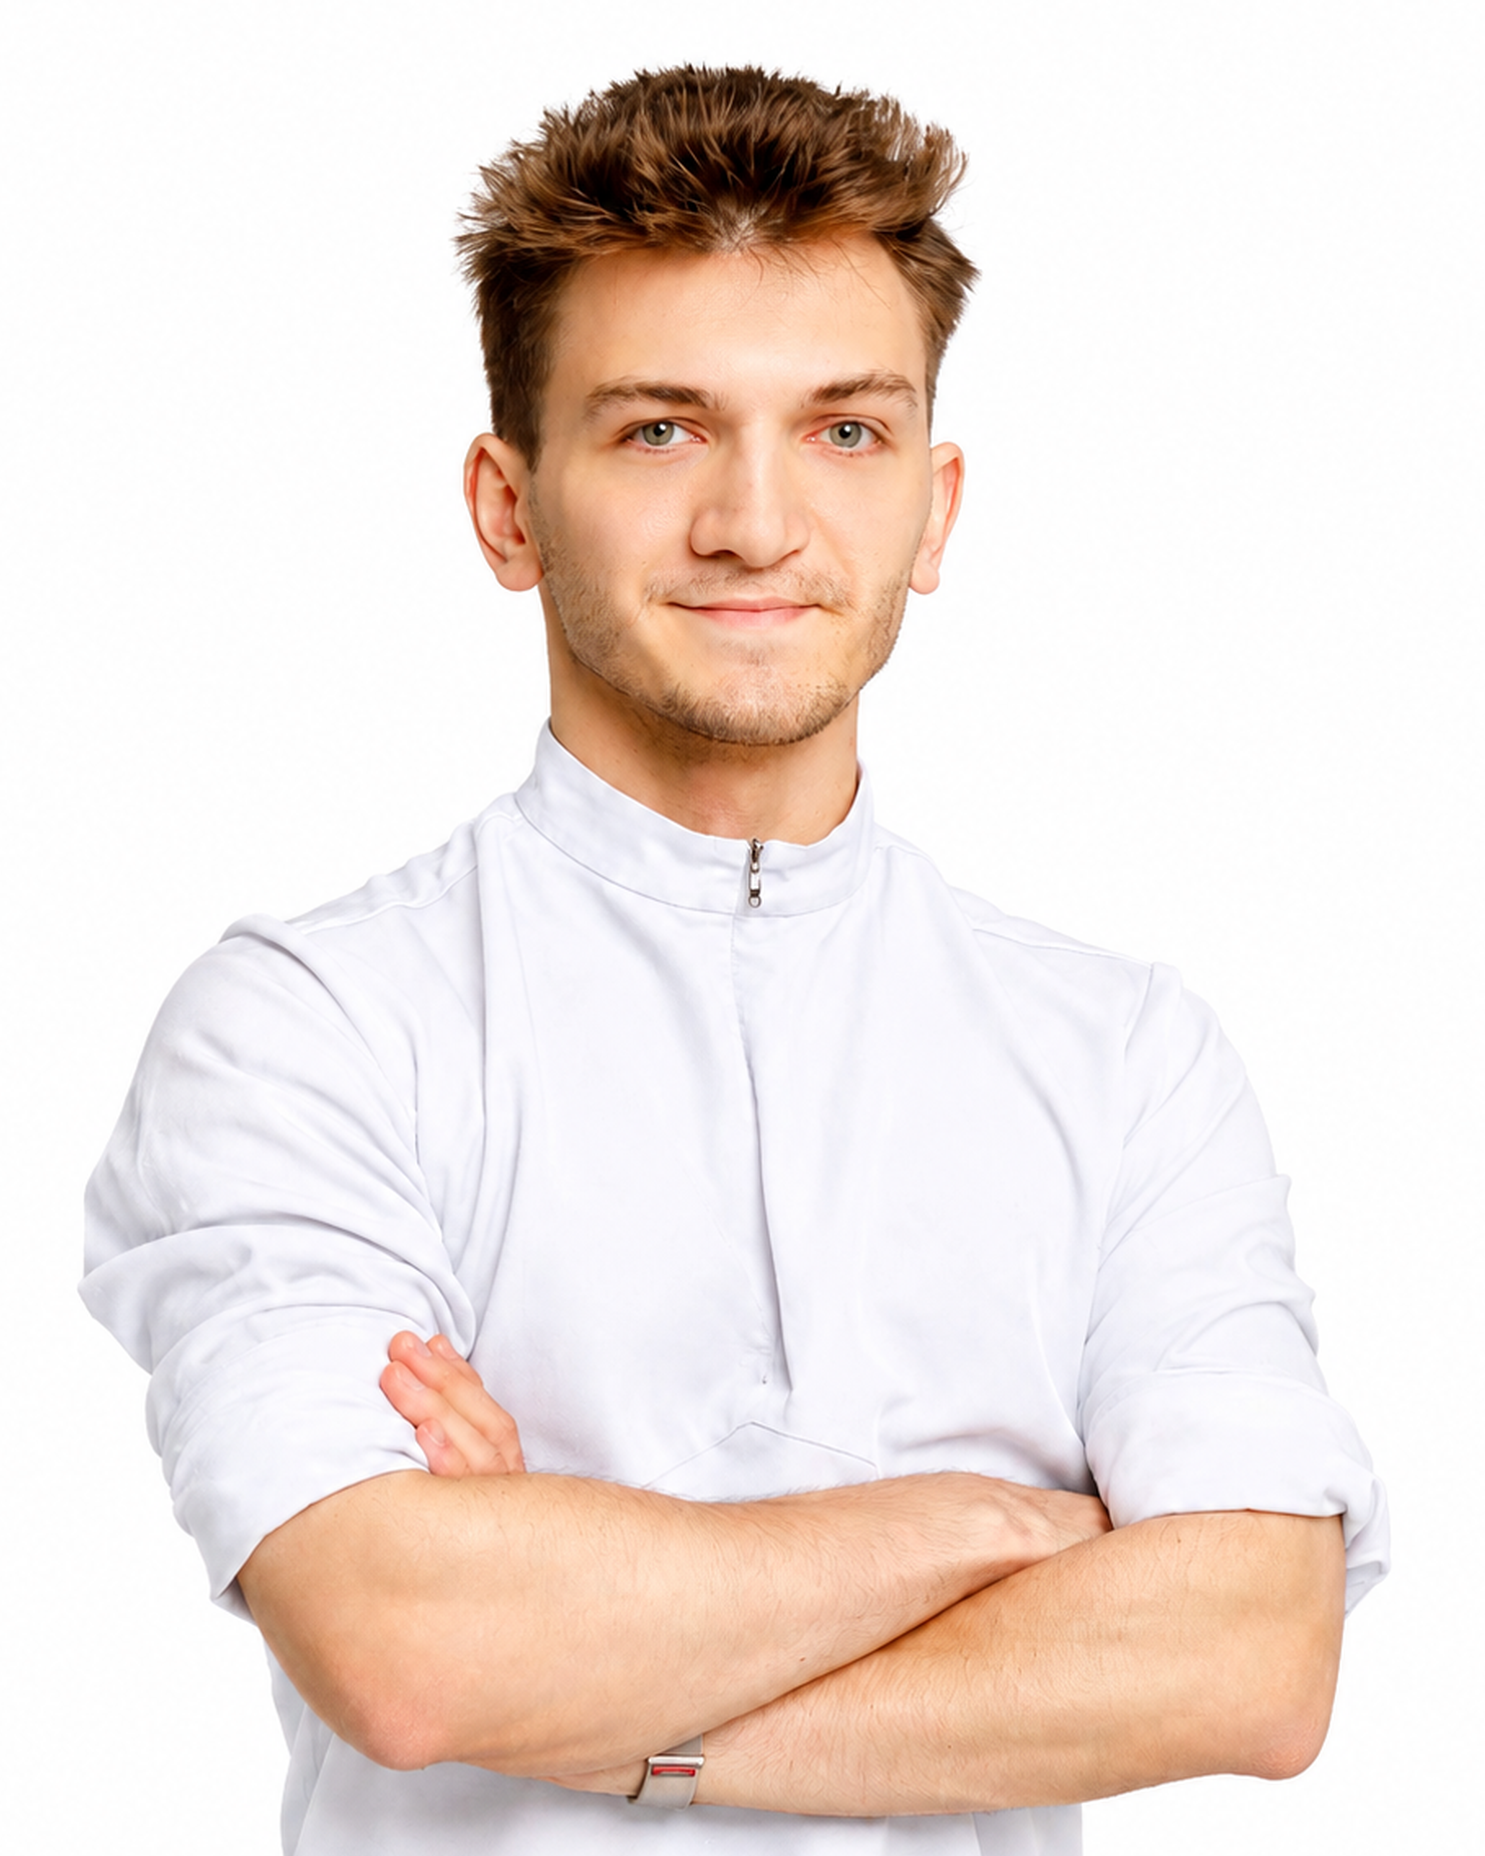
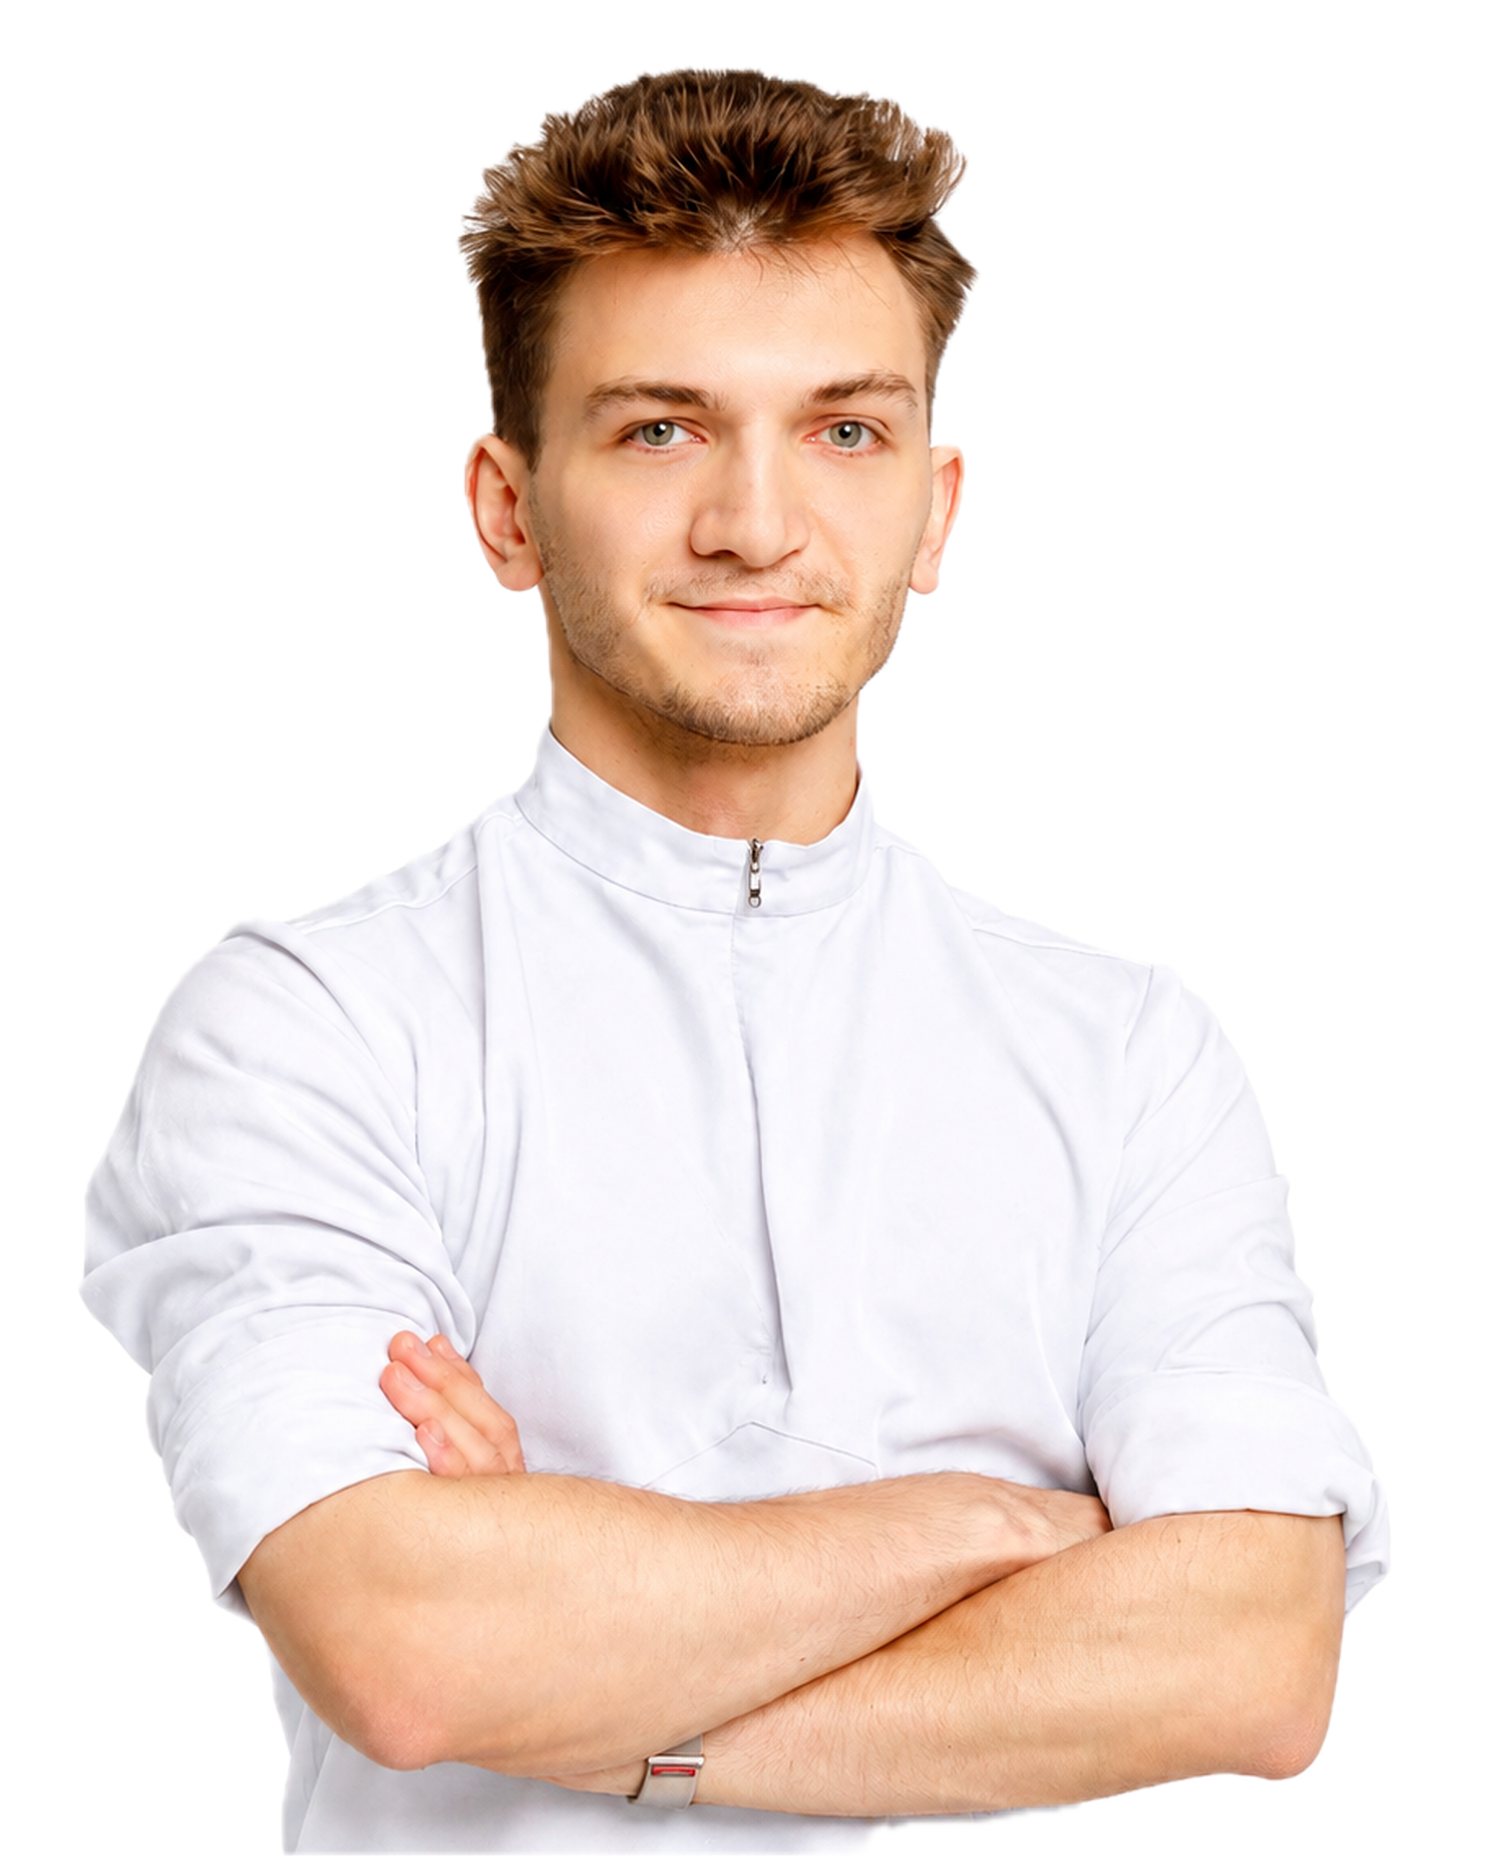
feat(team): карточки сотрудников, меню, фото Влада без фона

diff --git a/src/components/TeamPanel.tsx b/src/components/TeamPanel.tsx
@@ -1,16 +1,15 @@
 'use client'
 
-// Блок «Команда» на главной: круглые аватарки всех, у кого есть доступ.
-//
-// Данные из функции team_directory(), а не из таблицы profiles: политика
-// profiles_self не даёт технику видеть чужие строки, и без функции он
-// увидел бы только себя.
+// Блок «Команда» на главной: крупные круглые аватарки в одну строку.
+// Клик по аватарке открывает карточку сотрудника: фото, календарь и наряды.
+// Администратора в блоке не показываем.
 
-import { useEffect, useState } from 'react'
+import { useEffect, useMemo, useState } from 'react'
 import Link from 'next/link'
 import { supabase } from '@/lib/supabase'
 import { useStore } from './Store'
 import Avatar from './Avatar'
+import { today } from '@/lib/model'
 import styles from './TeamPanel.module.css'
 
 type Member = {
@@ -21,11 +20,38 @@ type Member = {
   avatar_url: string | null
 }
 
+type Order = {
+  id: string
+  number: number
+  patientId: string
+  dueDate: string
+  status: string
+  doctor?: string
+  technician?: string
+  items: { price: number }[]
+}
+
+type Patient = { id: string; name: string }
+
 const ROLE_LABEL: Record<string, string> = {
   admin: 'Администратор',
   doctor: 'Врач',
   technician: 'Техник',
 }
+
+const STATUS_LABEL: Record<string, string> = {
+  new: 'Новый',
+  awaiting_fitting: 'Ждёт примерки',
+  fitted: 'Примерка',
+  in_progress: 'В работе',
+  done: 'Готово',
+}
+
+const MONTHS = [
+  'Январь', 'Февраль', 'Март', 'Апрель', 'Май', 'Июнь',
+  'Июль', 'Август', 'Сентябрь', 'Октябрь', 'Ноябрь', 'Декабрь',
+]
+const WEEK = ['Пн', 'Вт', 'Ср', 'Чт', 'Пт', 'Сб', 'Вс']
 
 /** Фото может быть записано как полный путь или как голое имя файла. */
 function photoSrc(m: Member): string {
@@ -34,48 +60,206 @@ function photoSrc(m: Member): string {
   return `/team/${m.login}.png`
 }
 
+const norm = (s: string) => (s ?? '').trim().toLowerCase()
+
 export default function TeamPanel() {
-  const { session, realRole } = useStore()
+  const { session, realRole, data } = useStore()
   const [members, setMembers] = useState<Member[]>([])
   const [loading, setLoading] = useState(true)
+  const [openId, setOpenId] = useState<string | null>(null)
 
   useEffect(() => {
     let alive = true
     void (async () => {
-      const { data, error } = await supabase.rpc('team_directory')
+      const { data: rows, error } = await supabase.rpc('team_directory')
       if (!alive) return
-      if (!error && data) setMembers(data as Member[])
+      if (!error && rows) setMembers(rows as Member[])
       setLoading(false)
     })()
     return () => { alive = false }
   }, [session?.user.id])
 
-  if (loading) return null
-  if (!members.length) return null
+  const visible = members.filter((m) => m.role !== 'admin')
+  const opened = visible.find((m) => m.user_id === openId) ?? null
+
+  if (loading || !visible.length) return null
 
   return (
     <section className={styles.panel}>
       <div className={styles.head}>
         <h2>Команда</h2>
-        <span className={styles.count}>{members.length}</span>
+        <span className={styles.count}>{visible.length}</span>
         {realRole === 'admin' && (
           <Link href="/users" className={styles.link}>Управление доступом</Link>
         )}
       </div>
 
       <ul className={styles.list}>
-        {members.map((m) => {
+        {visible.map((m) => {
           const name = (m.display_name ?? '').trim() || m.login
           const isMe = m.user_id === session?.user.id
           return (
             <li key={m.user_id} className={isMe ? styles.me : undefined}>
-              <Avatar src={photoSrc(m)} name={name} size={54} />
+              <button
+                type="button"
+                className={styles.card}
+                onClick={() => setOpenId(m.user_id)}
+                aria-label={`Открыть карточку: ${name}`}
+              >
+                <Avatar src={photoSrc(m)} name={name} size={150} />
+              </button>
               <b>{name}</b>
               <small>{isMe ? 'это вы' : ROLE_LABEL[m.role] ?? m.role}</small>
             </li>
           )
         })}
       </ul>
+
+      {opened && (
+        <MemberModal
+          member={opened}
+          isMe={opened.user_id === session?.user.id}
+          orders={data.orders as Order[]}
+          patients={data.patients as Patient[]}
+          onClose={() => setOpenId(null)}
+        />
+      )}
     </section>
+  )
+}
+
+function MemberModal({
+  member, isMe, orders, patients, onClose,
+}: {
+  member: Member
+  isMe: boolean
+  orders: Order[]
+  patients: Patient[]
+  onClose: () => void
+}) {
+  const name = (member.display_name ?? '').trim() || member.login
+  const nameKey = norm(name)
+  const loginKey = norm(member.login)
+
+  // Наряды, где сотрудник указан техником или врачом (по имени или логину)
+  const mine = useMemo(
+    () =>
+      orders
+        .filter((o) => {
+          const t = norm(o.technician ?? '')
+          const d = norm(o.doctor ?? '')
+          return t === nameKey || d === nameKey || t === loginKey || d === loginKey
+        })
+        .sort((a, b) => a.dueDate.localeCompare(b.dueDate)),
+    [orders, nameKey, loginKey],
+  )
+
+  const active = mine.filter((o) => o.status !== 'done').length
+  const done = mine.length - active
+
+  // Дни месяца, где есть срок по незавершённым нарядам
+  const dueDays = useMemo(() => {
+    const set = new Set<string>()
+    mine.forEach((o) => { if (o.status !== 'done') set.add(o.dueDate) })
+    return set
+  }, [mine])
+
+  const [month, setMonth] = useState(() => {
+    const d = new Date()
+    return new Date(d.getFullYear(), d.getMonth(), 1)
+  })
+  const year = month.getFullYear()
+  const mon = month.getMonth()
+  const offset = (new Date(year, mon, 1).getDay() + 6) % 7
+  const daysInMonth = new Date(year, mon + 1, 0).getDate()
+  const cells: (number | null)[] = [
+    ...Array.from({ length: offset }, () => null),
+    ...Array.from({ length: daysInMonth }, (_, i) => i + 1),
+  ]
+  const iso = (d: number) => `${year}-${String(mon + 1).padStart(2, '0')}-${String(d).padStart(2, '0')}`
+  const todayIso = today()
+
+  useEffect(() => {
+    const onKey = (e: KeyboardEvent) => { if (e.key === 'Escape') onClose() }
+    window.addEventListener('keydown', onKey)
+    const prev = document.body.style.overflow
+    document.body.style.overflow = 'hidden'
+    return () => {
+      window.removeEventListener('keydown', onKey)
+      document.body.style.overflow = prev
+    }
+  }, [onClose])
+
+  const patientName = (id: string) => patients.find((p) => p.id === id)?.name ?? '—'
+
+  return (
+    <div className={styles.overlay} onClick={onClose} role="dialog" aria-modal="true" aria-label={name}>
+      <div className={styles.modal} onClick={(e) => e.stopPropagation()}>
+        <button type="button" className={styles.close} onClick={onClose} aria-label="Закрыть">✕</button>
+
+        <div className={styles.top}>
+          <Avatar src={photoSrc(member)} name={name} size={200} className={styles.big} />
+          <div className={styles.who}>
+            <span className={styles.eyebrow}>
+              {ROLE_LABEL[member.role] ?? member.role}{isMe ? ' · это вы' : ''}
+            </span>
+            <h3>{name}</h3>
+            <div className={styles.stats}>
+              <div><strong>{active}</strong><span>в работе</span></div>
+              <div><strong>{done}</strong><span>готово</span></div>
+              <div><strong>{mine.length}</strong><span>всего нарядов</span></div>
+            </div>
+          </div>
+        </div>
+
+        <div className={styles.grid}>
+          <div className={styles.calendar}>
+            <div className={styles.calHead}>
+              <button type="button" onClick={() => setMonth(new Date(year, mon - 1, 1))} aria-label="Предыдущий месяц">‹</button>
+              <b>{MONTHS[mon]} {year}</b>
+              <button type="button" onClick={() => setMonth(new Date(year, mon + 1, 1))} aria-label="Следующий месяц">›</button>
+            </div>
+            <div className={styles.week}>
+              {WEEK.map((w) => <span key={w}>{w}</span>)}
+            </div>
+            <div className={styles.days}>
+              {cells.map((d, i) =>
+                d === null ? (
+                  <span key={i} />
+                ) : (
+                  <span
+                    key={i}
+                    className={[
+                      styles.day,
+                      iso(d) === todayIso ? styles.todayCell : '',
+                      dueDays.has(iso(d)) ? styles.hasWork : '',
+                    ].join(' ')}
+                  >
+                    {d}
+                  </span>
+                ),
+              )}
+            </div>
+          </div>
+
+          <div className={styles.works}>
+            <h4>Наряды и работы</h4>
+            {mine.length === 0 && <div className={styles.empty}>Нарядов пока нет</div>}
+            {mine.map((o) => (
+              <Link key={o.id} href={`/orders/${o.id}`} className={styles.work} onClick={onClose}>
+                <span className={styles.num}>№{o.number}</span>
+                <span className={styles.info}>
+                  <b>{patientName(o.patientId)}</b>
+                  <small>{o.dueDate} · {o.items.length} ед.</small>
+                </span>
+                <span className={`${styles.badge} ${o.status === 'done' ? styles.badgeDone : ''}`}>
+                  {STATUS_LABEL[o.status] ?? o.status}
+                </span>
+              </Link>
+            ))}
+          </div>
+        </div>
+      </div>
+    </div>
   )
 }
